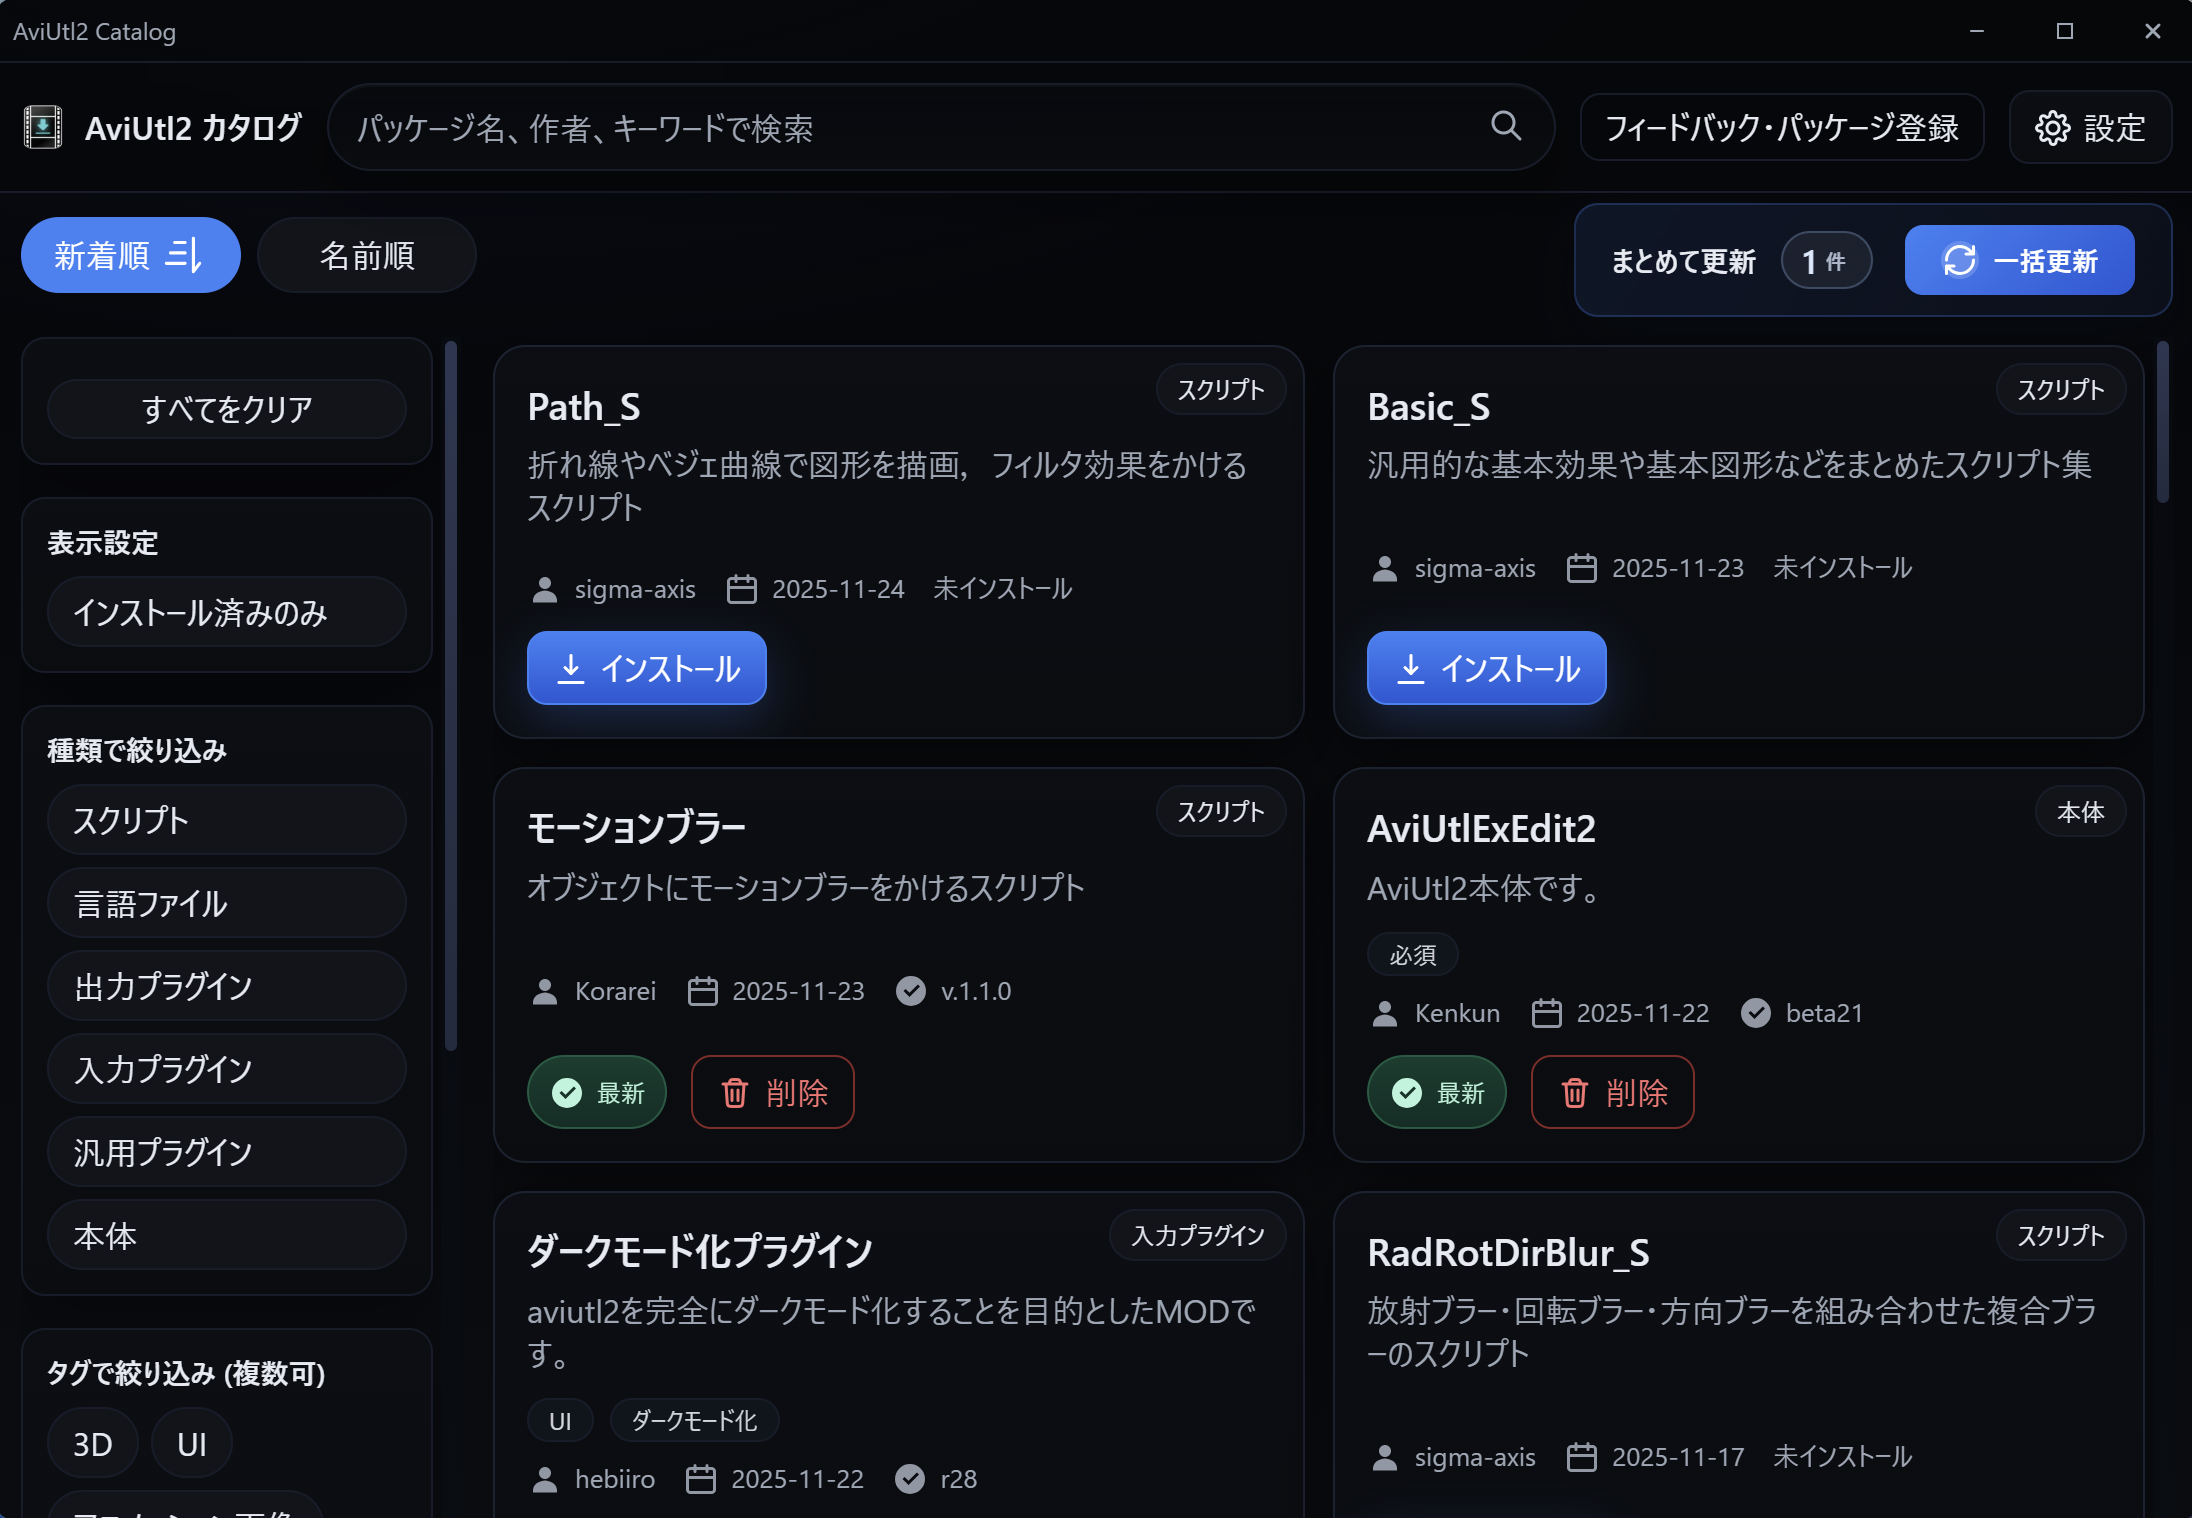
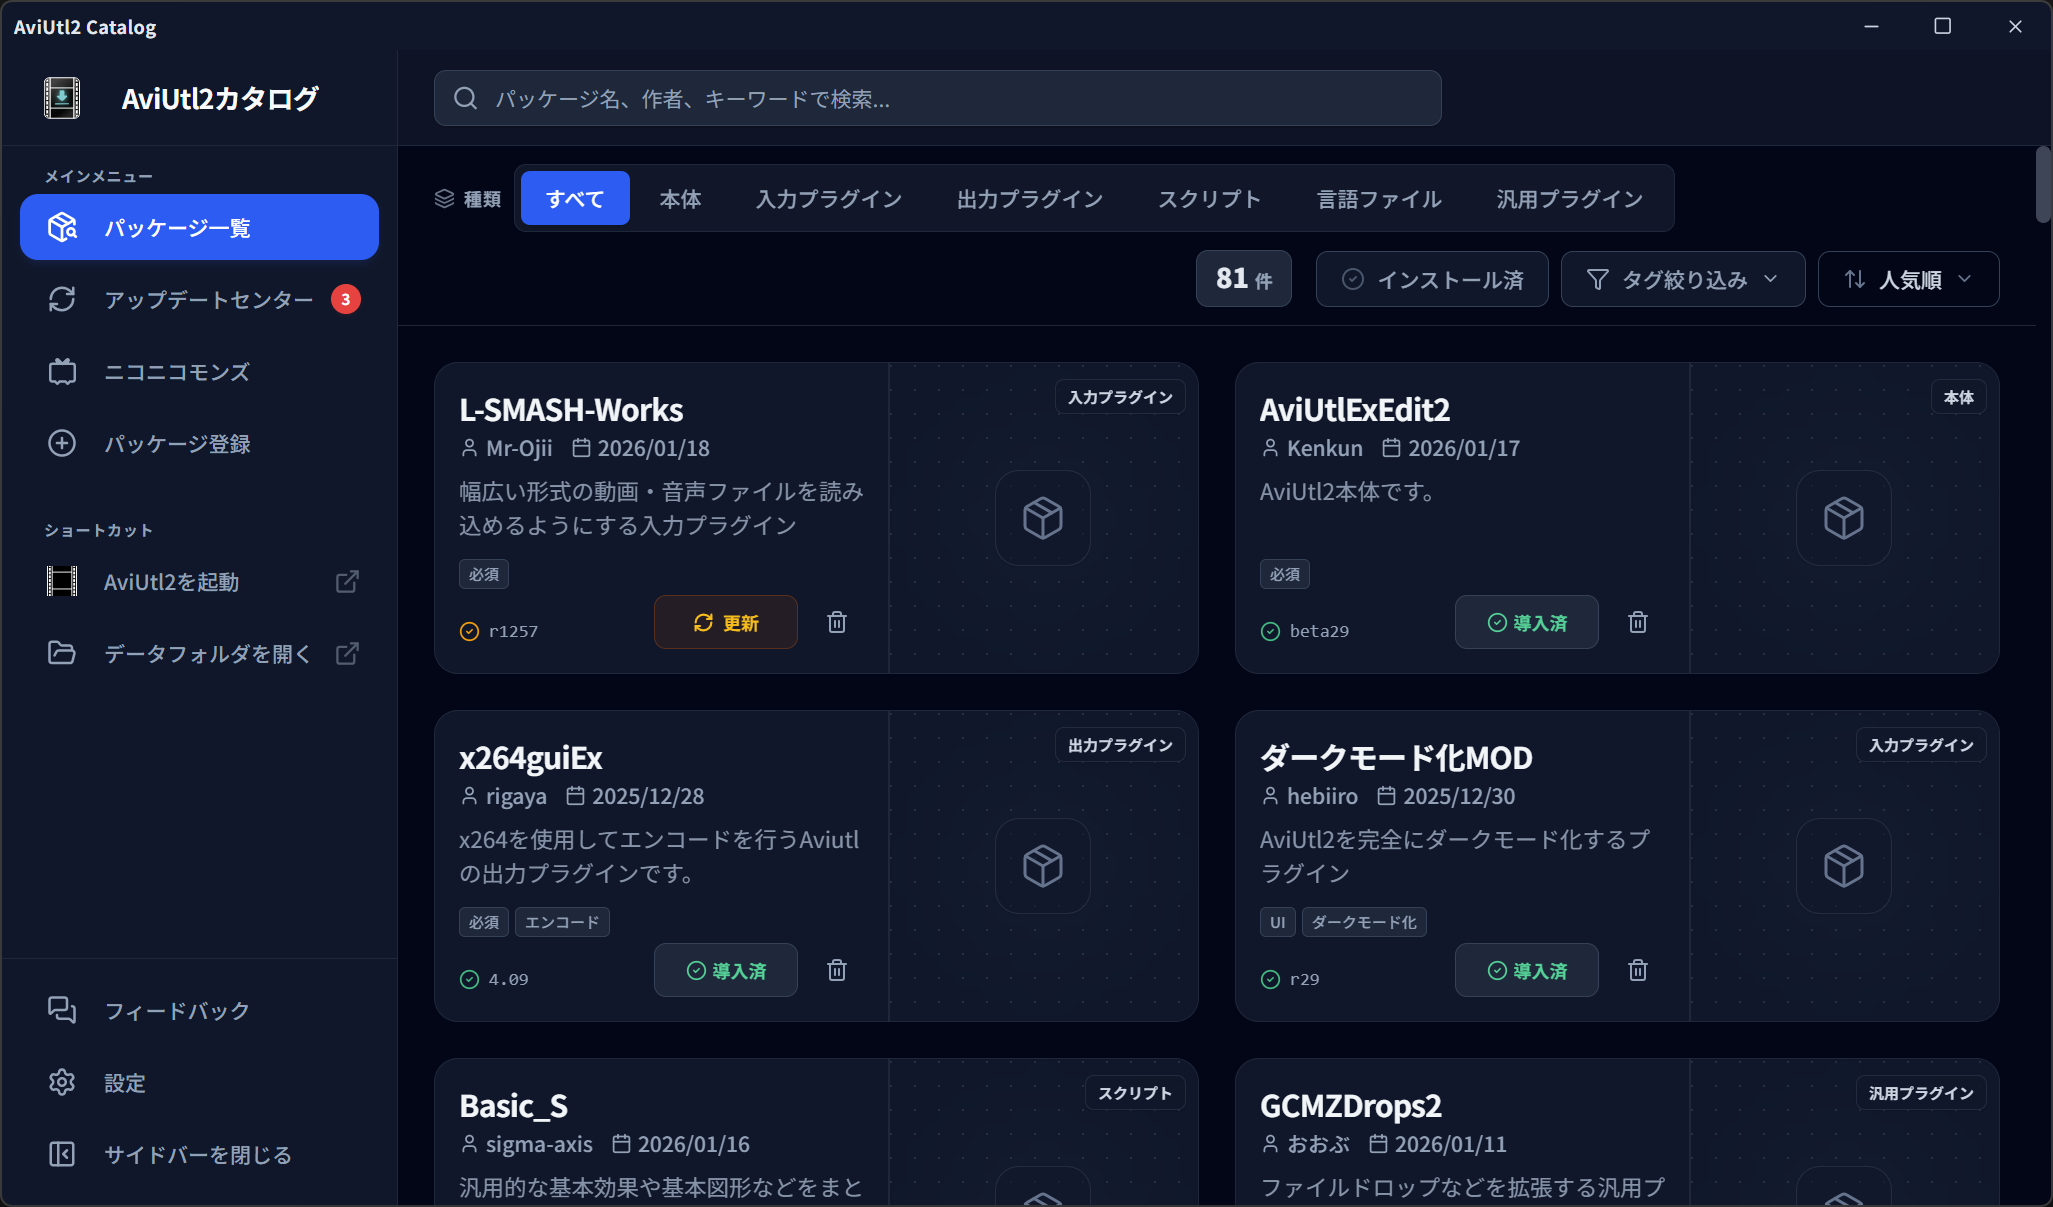
📝READMEの更新

diff --git a/README.md b/README.md
@@ -1,17 +1,28 @@
 # AviUtl2 カタログ
 
-AviUtl2 のプラグインやツールを「探す・知る・入れる・更新する」を一気通貫で行える、デスクトップ向けカタログアプリです。  
-Tauri 2 + React 19 (Vite 7) を利用して実装しています。
-現在ベータ版です。バグなどがあれば本ソフト内のフィードバッグからお知らせください。
+AviUtl2のプラグインやスクリプトを、検索から導入・更新まで一括で管理できるデスクトップアプリです。
+現在ベータ版です。
 
 ---
 
-## 機能概要
-- 🔍 パッケージの検索  
-- 📦 パッケージのインストール / 更新 / 削除  
-- 🔔 AviUtl2 の画面上で、インストール済みプラグインに更新がある場合に通知
-- 🧩 インストール済みパッケージの自動検出（XXH3-128 によるハッシュ）  
-- 📨 パッケージの投稿（検査後に反映）  
+## 主な機能
+- 🚀 AviUtl2本体および推奨プラグインを簡単に導入
+* 📦 インストール・更新・削除をワンボタンでかんたん操作（一括更新にも対応）
+* 🔔 AviUtl2本体やプラグイン／スクリプトに更新があると、AviUtl2のメニューバーでお知らせ
+* 🔍 パッケージを検索・絞り込み
+* 📋 ニコニ・コモンズIDをまとめてコピー
+* 🧩 インストール済みパッケージを自動で検出（XXH3-128 ハッシュ使用）
+* 📨 パッケージの登録（審査後、カタログに掲載）
+
+
+---
+
+## ダウンロード元の対応
+現在以下のダウンロード元に対応しています
+- 直接ダウンロードURL
+- GitHub Releases
+- Google Drive
+- BOOTH
 
 ---
 
@@ -23,45 +34,63 @@ Tauri 2 + React 19 (Vite 7) を利用して実装しています。
     <td><img src="./docs/info2.png"><br>パッケージ詳細</td>
   </tr>
   <tr>
-    <td><img src="./docs/info3.png"><br>初期セットアップ</td>
+    <td><img src="./docs/info3.png"><br>アップデートセンター</td>
     <td><img src="./docs/info4.png"><br>パッケージ登録</td>
   </tr>
 </table>
 
 ---
 
+## セットアップのイメージ
+本ソフトでは、AviUtl2本体および推奨プラグインのセットアップをワンボタンで行えます。
+
+<table>
+  <tr>
+    <td><img src="./docs/setup1.png"><br>メイン画面</td>
+    <td><img src="./docs/setup2.png"><br>パッケージ詳細</td>
+  </tr>
+  <tr>
+    <td><img src="./docs/setup3.png"><br>アップデートセンター</td>
+    <td><img src="./docs/setup4.png"><br>パッケージ登録</td>
+  </tr>
+</table>
+
+---
+
 ## 画面構成
-- **ホーム**: パッケージの一覧表示、検索、フィルタを用いたソート
-- **パッケージ詳細**: パッケージの詳細表示ページ、パッケージのイメージ画像、md形式の説明  
-- **フィードバック**: フィードバック送信（パッケージ登録 / 不具合報告 / 意見・問い合わせ）  
-
----
-
-## 開発環境・ビルド要件
-- OS: **Windows 11 x64**
-- Node.js: **v18 以上**
-- Rust & Tauri 2 開発環境
-
-## 保存先（AppConfig 配下）
-
-Tauri のアプリ設定ディレクトリに以下のデータを保存します。
-
-* `settings.json` : AviUtl2 のパスやテーマの設定を保存
-* `catalog/index.json` : 取得したカタログデータのキャッシュ
-* `installed.json` : インストール済み ID 一覧
-* `hash-cache.json` : ハッシュ計算のキャッシュ
-* `logs/app.log` : アプリログ
-* `installer-tmp/<id-version>/` : インストーラーの一時保存フォルダ
-
----
+- **パッケージ一覧**: パッケージの一覧表示、検索、フィルタ/ソート
+- **パッケージ詳細**: パッケージについての詳細説明
+- **アップデートセンター**： インストール済みパッケージの更新を一括管理
+- **パッケージ登録**： 新規パッケージの登録フォーム
+- **フィードバック**: 不具合報告 / 意見・問い合わせ  
+    
 
 ## カタログデータ
 
-* パッケージ登録は、アプリ内の **フィードバック** からお願いします。（作者以外の方も大歓迎です）
-* カタログデータは`aviutl2-catalog-data`のindex.jsonに記録しています。30分ごとに更新を自動確認します(対応しているもののみ)
+* パッケージ登録は、アプリ内の **パッケージ登録** からお願いします。（作者以外の方も大歓迎です）
+* カタログデータは `aviutl2-catalog-data` の `index.json` に記録しています。30 分ごとに更新を自動確認します（Githubのリリース機能を用いてリリースしているパッケージのおみ）。
 （[パッケージ一覧](https://github.com/Neosku/aviutl2-catalog-data/blob/main/パッケージ.md)）
+
+---
+
+## Deep Link（アプリ起動リンク）
+カスタムスキーム `aviutl2-catalog://` でアプリを起動し、指定ページを直接開けます。  
+リンクを開くとアプリが前面化し、対応ページへ遷移します。
+
+対応パス:
+- `aviutl2-catalog://`（ホーム）
+- `aviutl2-catalog://updates`（アップデートセンター）
+- `aviutl2-catalog://register`（パッケージ登録）
+- `aviutl2-catalog://package/<package-id>`（パッケージ詳細）
+
+オプション:
+- `aviutl2-catalog://package/<package-id>?install=true`  
+  パッケージ詳細を開いた上で、未インストールの場合は自動でインストールを開始します。
+
+※ 上記以外のパスは無視されます。
+
 ---
 
 ## ライセンス
 
-本ソフトウェアは **MIT ライセンス** です。
+本ソフトウェアは **MIT ライセンス** です
